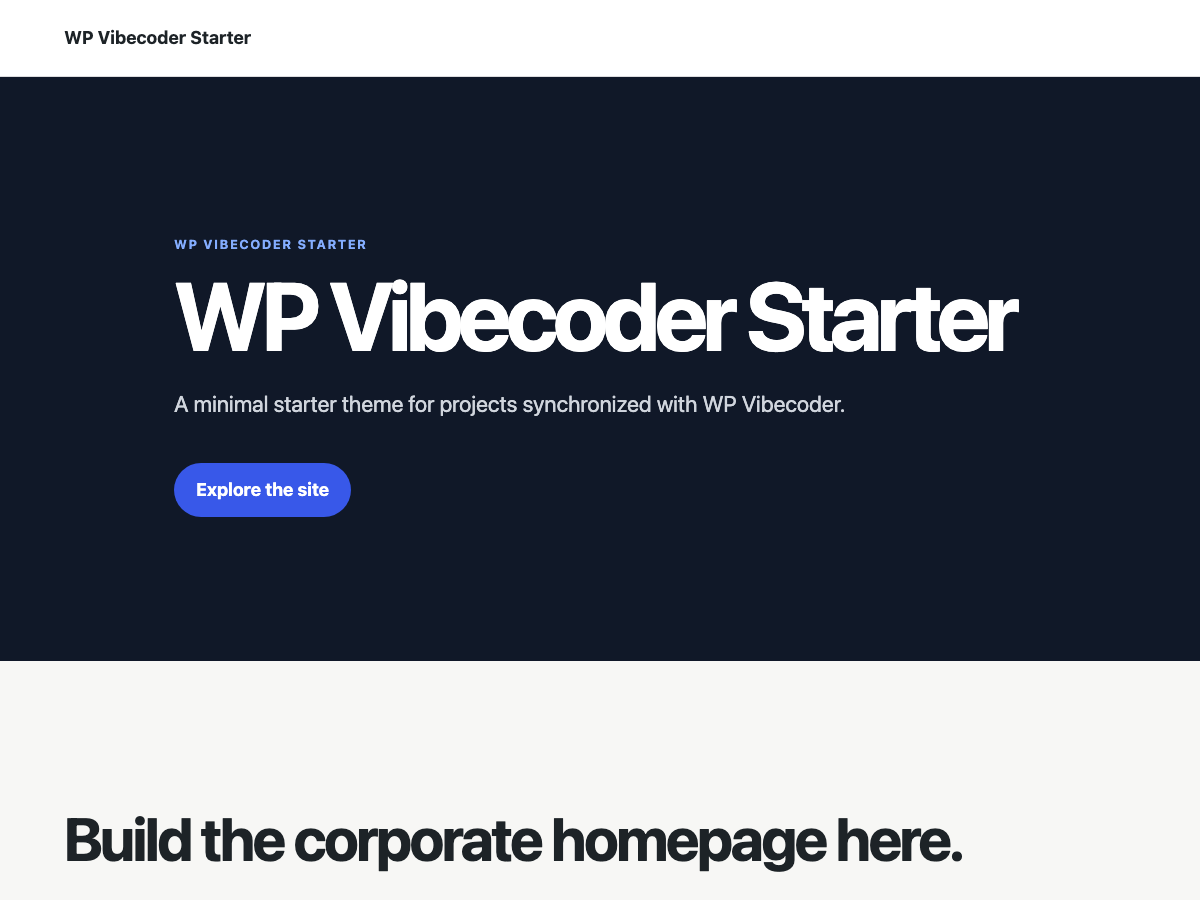
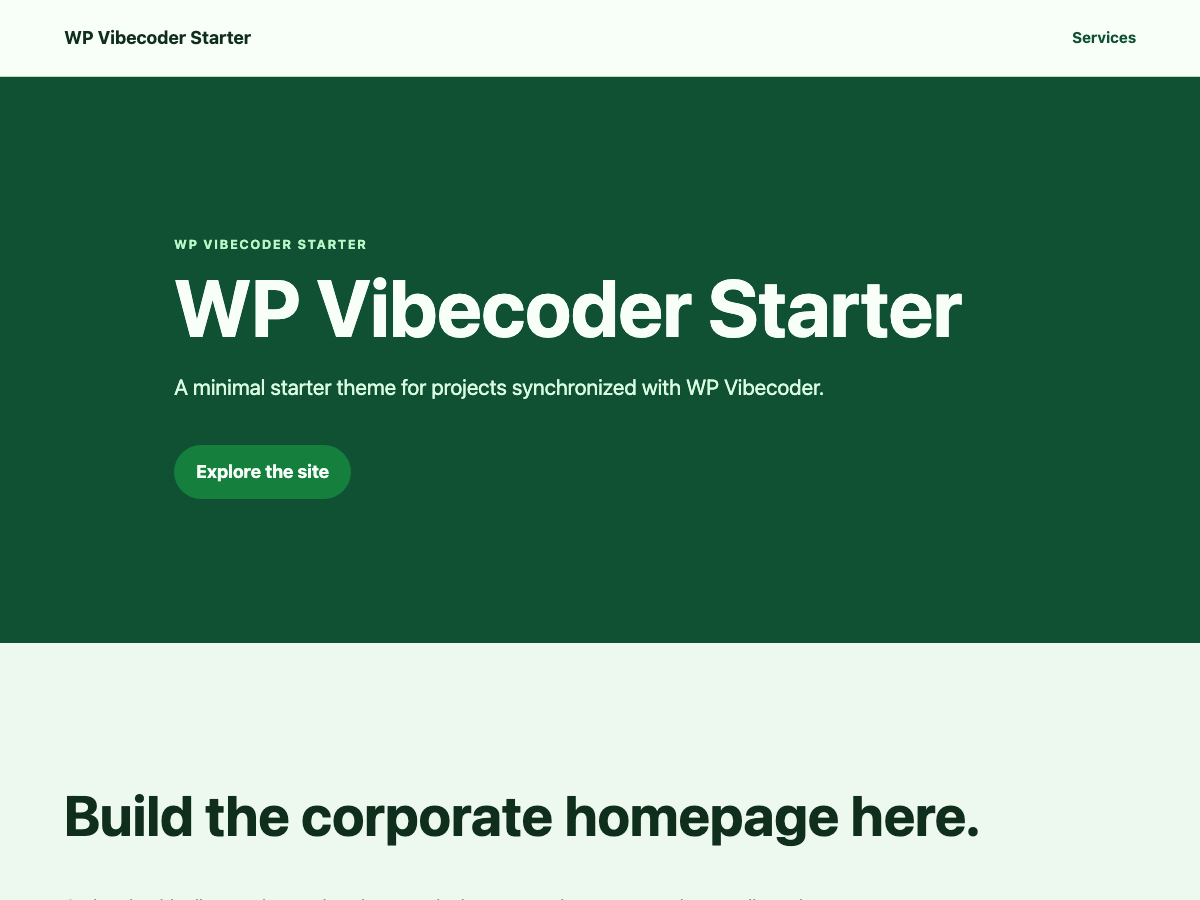
Green

diff --git a/theme/style.css b/theme/style.css
@@ -1,8 +1,6 @@
 /*
 Theme Name: WP Vibecoder Starter
-Theme URI: https://example.com/
-Author: Your Name
-Author URI: https://example.com/
+Author: WP Vibecoder
 Description: A minimal starter theme for projects synchronized with WP Vibecoder.
 Version: 1.0
 Requires at least: 6.0
@@ -13,12 +11,14 @@ License URI: https://www.gnu.org/licenses/gpl-2.0.html
 */
 
 :root {
-	--background: #f7f7f5;
-	--surface: #ffffff;
-	--text: #1d2327;
-	--muted: #667085;
-	--accent: #3858e9;
-	--border: #dcdcde;
+	--background: #edf8ef;
+	--surface: #f8fff9;
+	--text: #0f2f1c;
+	--muted: #4c745c;
+	--accent: #15803d;
+	--accent-dark: #0f5132;
+	--accent-soft: #d9fbe1;
+	--border: #b9dfc3;
 	--content-width: 1120px;
 }
 
@@ -80,9 +80,27 @@ a {
 	text-decoration: none;
 }
 
+.site-nav {
+	align-items: center;
+	display: flex;
+	gap: 20px;
+}
+
+.site-nav a {
+	color: var(--accent-dark);
+	font-size: 0.95rem;
+	font-weight: 700;
+	text-decoration: none;
+}
+
+.site-nav a:hover,
+.site-nav a:focus {
+	color: var(--accent);
+}
+
 .hero {
-	background: #101828;
-	color: #fff;
+	background: var(--accent-dark);
+	color: var(--surface);
 	padding-block: clamp(72px, 12vw, 150px);
 }
 
@@ -91,20 +109,20 @@ a {
 }
 
 .hero h1 {
-	font-size: clamp(2.75rem, 8vw, 6rem);
-	letter-spacing: -0.055em;
+	font-size: 3rem;
+	letter-spacing: 0;
 	line-height: 0.98;
 	margin: 0 0 24px;
 }
 
 .hero p:not(.eyebrow) {
-	color: #d0d5dd;
-	font-size: clamp(1.15rem, 2vw, 1.4rem);
+	color: var(--accent-soft);
+	font-size: 1.2rem;
 	max-width: 680px;
 }
 
 .eyebrow {
-	color: #84adff;
+	color: #baf7c7;
 	font-size: 0.8rem;
 	font-weight: 700;
 	letter-spacing: 0.12em;
@@ -114,7 +132,7 @@ a {
 .button-link {
 	background: var(--accent);
 	border-radius: 999px;
-	color: #fff;
+	color: var(--surface);
 	display: inline-block;
 	font-weight: 700;
 	margin-top: 18px;
@@ -133,9 +151,80 @@ a {
 
 .entry-title,
 .content-section h2 {
-	font-size: clamp(2rem, 5vw, 3.75rem);
-	letter-spacing: -0.04em;
+	font-size: 2.5rem;
+	letter-spacing: 0;
 	line-height: 1.08;
+}
+
+.services-page {
+	padding-block: clamp(48px, 8vw, 96px);
+}
+
+.services-hero {
+	margin-inline: auto;
+	max-width: 760px;
+	text-align: center;
+}
+
+.services-hero p {
+	color: var(--muted);
+	margin-inline: auto;
+	max-width: 620px;
+}
+
+.services-grid {
+	display: grid;
+	gap: 20px;
+	grid-template-columns: repeat(3, minmax(0, 1fr));
+	margin-top: 40px;
+}
+
+.service-card {
+	background: var(--surface);
+	border: 1px solid var(--border);
+	border-radius: 8px;
+	padding: 28px;
+}
+
+.service-card h2 {
+	font-size: 1.35rem;
+	letter-spacing: 0;
+	margin-block: 0 12px;
+}
+
+.service-card p {
+	color: var(--muted);
+	margin: 0;
+}
+
+@media (min-width: 760px) {
+	.hero h1 {
+		font-size: 5rem;
+	}
+
+	.hero p:not(.eyebrow) {
+		font-size: 1.35rem;
+	}
+
+	.entry-title,
+	.content-section h2 {
+		font-size: 3.5rem;
+	}
+}
+
+@media (max-width: 759px) {
+	.site-header__inner,
+	.site-footer__inner {
+		align-items: flex-start;
+		flex-direction: column;
+		gap: 12px;
+		justify-content: center;
+		padding-block: 16px;
+	}
+
+	.services-grid {
+		grid-template-columns: 1fr;
+	}
 }
 
 .screen-reader-text {
@@ -148,7 +237,7 @@ a {
 }
 
 .screen-reader-text:focus {
-	background: #fff;
+	background: var(--surface);
 	clip: auto;
 	clip-path: none;
 	height: auto;

diff --git a/preview/assets/preview.css b/preview/assets/preview.css
@@ -1,10 +1,12 @@
 :root {
-	--background: #f7f7f5;
-	--surface: #ffffff;
-	--text: #1d2327;
-	--muted: #667085;
-	--accent: #3858e9;
-	--border: #dcdcde;
+	--background: #edf8ef;
+	--surface: #f8fff9;
+	--text: #0f2f1c;
+	--muted: #4c745c;
+	--accent: #15803d;
+	--accent-dark: #0f5132;
+	--accent-soft: #d9fbe1;
+	--border: #b9dfc3;
 	--content-width: 1120px;
 }
 
@@ -66,9 +68,27 @@ a {
 	text-decoration: none;
 }
 
+.site-nav {
+	align-items: center;
+	display: flex;
+	gap: 20px;
+}
+
+.site-nav a {
+	color: var(--accent-dark);
+	font-size: 0.95rem;
+	font-weight: 700;
+	text-decoration: none;
+}
+
+.site-nav a:hover,
+.site-nav a:focus {
+	color: var(--accent);
+}
+
 .hero {
-	background: #101828;
-	color: #fff;
+	background: var(--accent-dark);
+	color: var(--surface);
 	padding-block: clamp(72px, 12vw, 150px);
 }
 
@@ -77,20 +97,20 @@ a {
 }
 
 .hero h1 {
-	font-size: clamp(2.75rem, 8vw, 6rem);
-	letter-spacing: -0.055em;
+	font-size: 3rem;
+	letter-spacing: 0;
 	line-height: 0.98;
 	margin: 0 0 24px;
 }
 
 .hero p:not(.eyebrow) {
-	color: #d0d5dd;
-	font-size: clamp(1.15rem, 2vw, 1.4rem);
+	color: var(--accent-soft);
+	font-size: 1.2rem;
 	max-width: 680px;
 }
 
 .eyebrow {
-	color: #84adff;
+	color: #baf7c7;
 	font-size: 0.8rem;
 	font-weight: 700;
 	letter-spacing: 0.12em;
@@ -100,7 +120,7 @@ a {
 .button-link {
 	background: var(--accent);
 	border-radius: 999px;
-	color: #fff;
+	color: var(--surface);
 	display: inline-block;
 	font-weight: 700;
 	margin-top: 18px;
@@ -113,7 +133,32 @@ a {
 }
 
 .content-section h2 {
-	font-size: clamp(2rem, 5vw, 3.75rem);
-	letter-spacing: -0.04em;
+	font-size: 2.5rem;
+	letter-spacing: 0;
 	line-height: 1.08;
+}
+
+@media (min-width: 760px) {
+	.hero h1 {
+		font-size: 5rem;
+	}
+
+	.hero p:not(.eyebrow) {
+		font-size: 1.35rem;
+	}
+
+	.content-section h2 {
+		font-size: 3.5rem;
+	}
+}
+
+@media (max-width: 759px) {
+	.site-header__inner,
+	.site-footer__inner {
+		align-items: flex-start;
+		flex-direction: column;
+		gap: 12px;
+		justify-content: center;
+		padding-block: 16px;
+	}
 }

diff --git a/preview/index.html b/preview/index.html
@@ -9,7 +9,10 @@
 <body>
 	<header class="site-header">
 		<div class="site-container site-header__inner">
-			<a class="site-title" href="#">WP Vibecoder Starter</a>
+			<a class="site-title" href="/">WP Vibecoder Starter</a>
+			<nav class="site-nav" aria-label="Primary navigation">
+				<a href="/services/">Services</a>
+			</nav>
 		</div>
 	</header>
 

diff --git a/theme/page-services.php b/theme/page-services.php
@@ -1,0 +1,39 @@
+<?php
+/**
+ * Services page template.
+ *
+ * @package WP_Vibecoder_Starter
+ */
+
+get_header();
+?>
+
+<main id="primary" class="site-main">
+	<section class="site-container services-page">
+		<header class="services-hero">
+			<p class="eyebrow"><?php esc_html_e( 'Services', 'wp-vibecoder-starter' ); ?></p>
+			<h1 class="entry-title"><?php esc_html_e( 'Simple demo services', 'wp-vibecoder-starter' ); ?></h1>
+			<p><?php esc_html_e( 'A short sample page showing how a service offering could be presented in this theme.', 'wp-vibecoder-starter' ); ?></p>
+		</header>
+
+		<div class="services-grid" aria-label="<?php esc_attr_e( 'Demo services', 'wp-vibecoder-starter' ); ?>">
+			<article class="service-card">
+				<h2><?php esc_html_e( 'Web Design', 'wp-vibecoder-starter' ); ?></h2>
+				<p><?php esc_html_e( 'Clean page layouts, reusable sections, and visual direction for a small business website.', 'wp-vibecoder-starter' ); ?></p>
+			</article>
+
+			<article class="service-card">
+				<h2><?php esc_html_e( 'WordPress Setup', 'wp-vibecoder-starter' ); ?></h2>
+				<p><?php esc_html_e( 'Basic theme configuration, pages, and content structure prepared for editing.', 'wp-vibecoder-starter' ); ?></p>
+			</article>
+
+			<article class="service-card">
+				<h2><?php esc_html_e( 'Maintenance', 'wp-vibecoder-starter' ); ?></h2>
+				<p><?php esc_html_e( 'Simple updates, layout adjustments, and ongoing improvements for demo purposes.', 'wp-vibecoder-starter' ); ?></p>
+			</article>
+		</div>
+	</section>
+</main>
+
+<?php
+get_footer();

diff --git a/theme/header.php b/theme/header.php
@@ -21,5 +21,8 @@
 		<a class="site-title" href="<?php echo esc_url( home_url( '/' ) ); ?>">
 			<?php echo esc_html( get_bloginfo( 'name' ) ); ?>
 		</a>
+		<nav class="site-nav" aria-label="<?php esc_attr_e( 'Primary navigation', 'wp-vibecoder-starter' ); ?>">
+			<a href="<?php echo esc_url( home_url( '/services/' ) ); ?>"><?php esc_html_e( 'Services', 'wp-vibecoder-starter' ); ?></a>
+		</nav>
 	</div>
 </header>